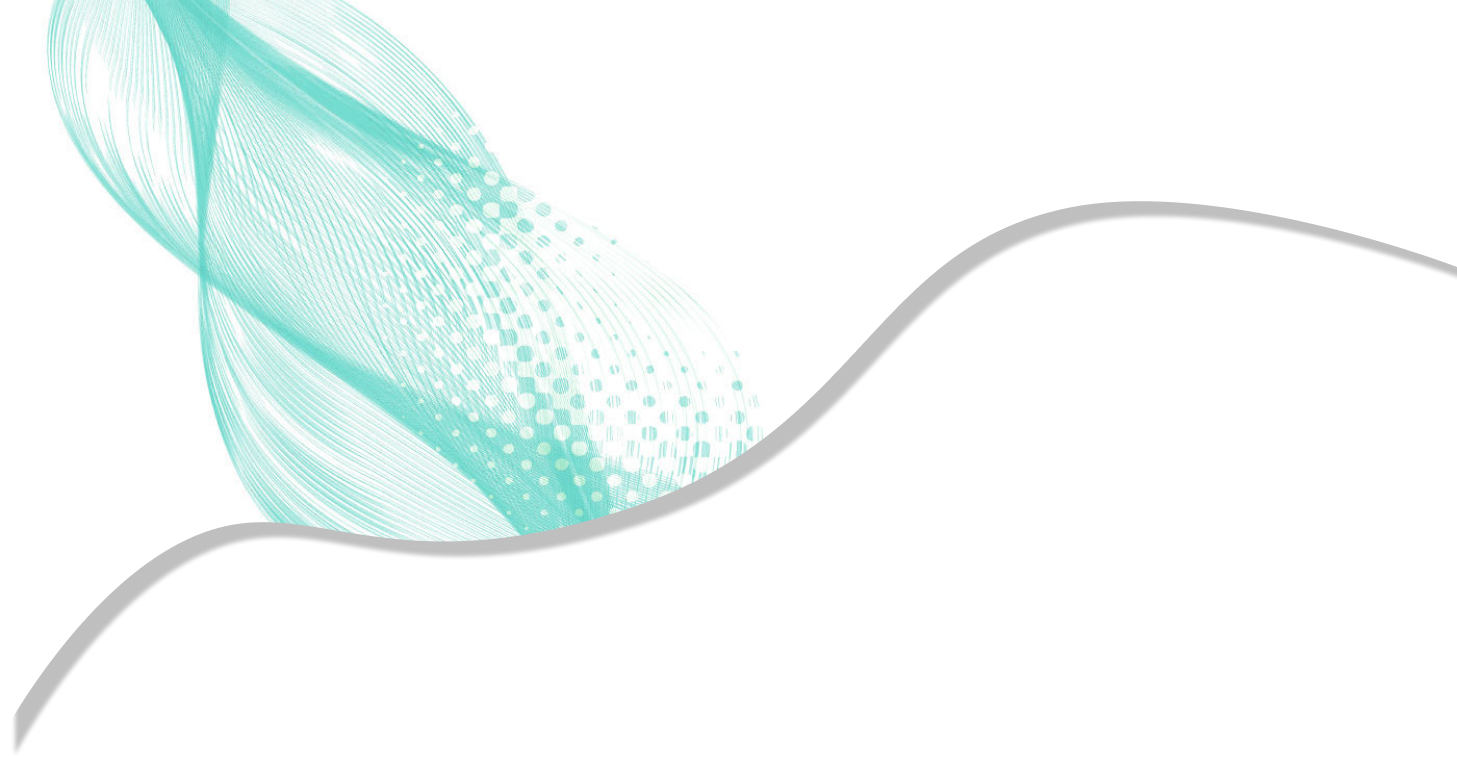
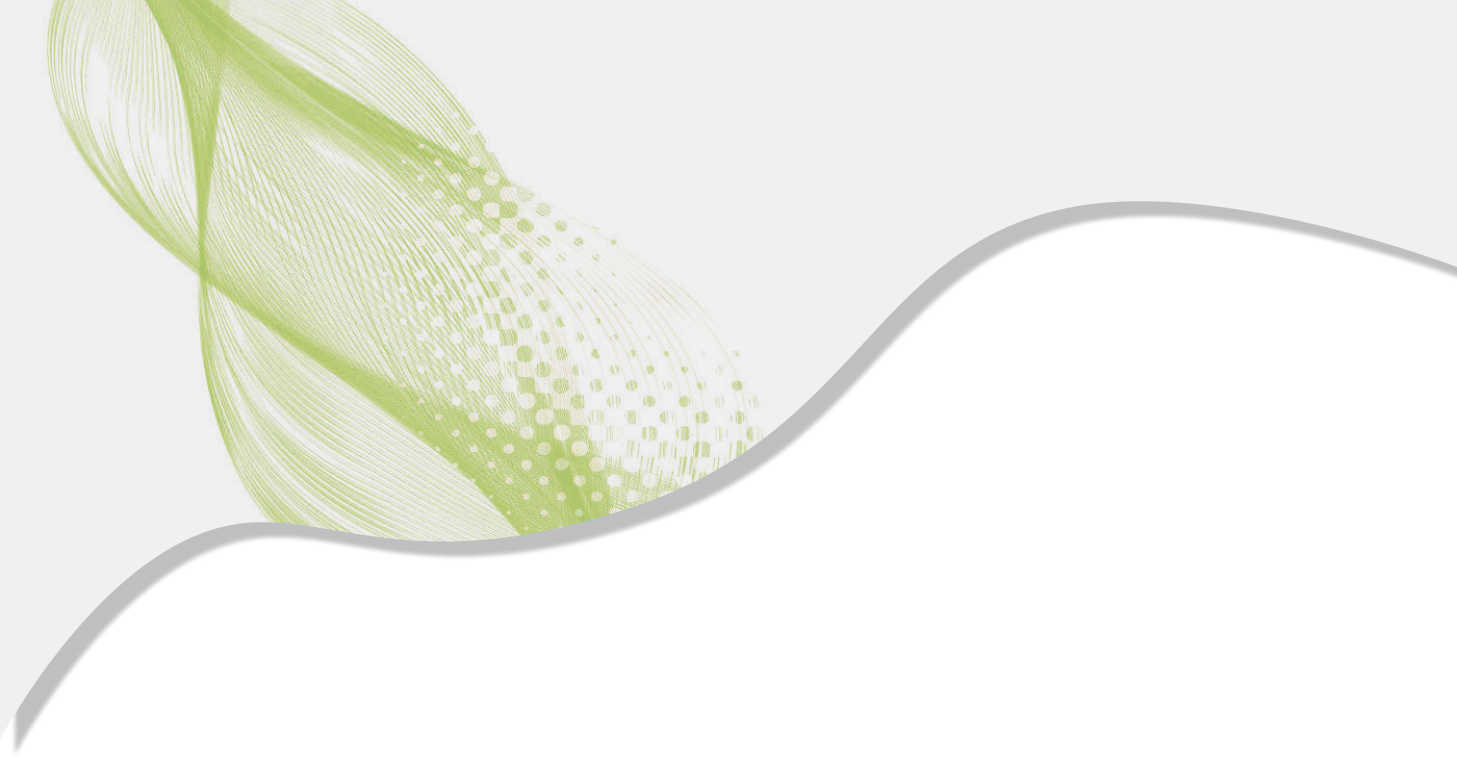
design

Changed region(s): [[0.0309, 0.0, 0.5251, 0.7263]]

diff --git a/src/index.css b/src/index.css
@@ -8,11 +8,11 @@ body {
     sans-serif;
   -webkit-font-smoothing: antialiased;
   -moz-osx-font-smoothing: grayscale;
-  background: rgb(6,74,18);
-  background: -moz-linear-gradient(95deg, rgba(6,74,18,1) 0%, rgba(63,134,89,1) 49%, rgba(119,217,203,1) 100%);
-  background: -webkit-linear-gradient(95deg, rgba(6,74,18,1) 0%, rgba(63,134,89,1) 49%, rgba(119,217,203,1) 100%);
-  background: linear-gradient(95deg, rgba(6,74,18,1) 0%, rgba(63,134,89,1) 49%, rgba(119,217,203,1) 100%);
-  filter: progid:DXImageTransform.Microsoft.gradient(startColorstr="#064a12",endColorstr="#77d9cb",GradientType=1);
+  background: rgb(71,67,58);
+  background: -moz-linear-gradient(90deg, rgba(71,67,58,1) 0%, rgba(232,236,205,1) 100%);
+  background: -webkit-linear-gradient(90deg, rgba(71,67,58,1) 0%, rgba(232,236,205,1) 100%);
+  background: linear-gradient(90deg, rgba(71,67,58,1) 0%, rgba(232,236,205,1) 100%);
+  filter: progid:DXImageTransform.Microsoft.gradient(startColorstr="#47433a",endColorstr="#e8eccd",GradientType=1);
   background-attachment: fixed;
   font-family: 'Oswald', Courier, Monospace;
   font-weight: 500;

diff --git a/src/components/navigation/navigation.css b/src/components/navigation/navigation.css
@@ -11,11 +11,11 @@
 }
 
 .nav-box {
-background: rgb(13,131,76);
-background: -moz-linear-gradient(38deg, rgba(13,131,76,1) 0%, rgba(144,198,205,1) 100%);
-background: -webkit-linear-gradient(38deg, rgba(13,131,76,1) 0%, rgba(144,198,205,1) 100%);
-background: linear-gradient(38deg, rgba(13,131,76,1) 0%, rgba(144,198,205,1) 100%);
-filter: progid:DXImageTransform.Microsoft.gradient(startColorstr="#0d834c",endColorstr="#90c6cd",GradientType=1);
+	background: rgb(71,67,58);
+	background: -moz-linear-gradient(90deg, rgba(71,67,58,1) 0%, rgba(123,128,93,1) 100%);
+	background: -webkit-linear-gradient(90deg, rgba(71,67,58,1) 0%, rgba(123,128,93,1) 100%);
+	background: linear-gradient(90deg, rgba(71,67,58,1) 0%, rgba(123,128,93,1) 100%);
+	filter: progid:DXImageTransform.Microsoft.gradient(startColorstr="#47433a",endColorstr="#7b805d",GradientType=1);
 }
 
 /* media querries */

diff --git a/src/components/header/header.css b/src/components/header/header.css
@@ -16,7 +16,11 @@
 
 h2 {
 	font-size: 1.2rem;
-	background: -webkit-linear-gradient(45deg, #064a12, #57d9cb);
+	background: rgb(71,67,58);
+background: -moz-linear-gradient(90deg, rgba(71,67,58,1) 0%, rgba(170,177,121,1) 100%);
+background: -webkit-linear-gradient(90deg, rgba(71,67,58,1) 0%, rgba(170,177,121,1) 100%);
+background: linear-gradient(90deg, rgba(71,67,58,1) 0%, rgba(170,177,121,1) 100%);
+filter: progid:DXImageTransform.Microsoft.gradient(startColorstr="#47433a",endColorstr="#aab179",GradientType=1);
  	-webkit-background-clip: text;
 	-webkit-text-fill-color: transparent;
 }
@@ -43,5 +47,9 @@ h2 {
 		margin-left: 5%;
 		margin-top: 12rem;
 		width: 8rem;
+	}
+
+	.header-background {
+		height: 16rem;
 	}
 }

diff --git a/src/components/header/header.js b/src/components/header/header.js
@@ -9,7 +9,7 @@ const Header = () => {
 			<img className='header-background' src={HeaderBackground}/>
 			<img className='slide-in-left head-img content-start tl' src={image} alt='header'/>
 			<h2 className='slide-in-left hd-margin w-30'>
-				Magic App to detect face in Your pictures
+				Magic App to detect faces in Your pictures
 			</h2>
 		</div>
 	)

diff --git a/src/components/rank/image.js b/src/components/rank/image.js
@@ -3,7 +3,7 @@ import pic from '../../img/face.png'
 
 const Image = () => {
 	return(
-		<div className='item-e center ma5 mt6' style={{width: 200, height: 200}}>
+		<div className='item-e center ma4 mt6' style={{width: 300, height: 300}}>
 			<img src={pic} />
 		</div>
 		)

diff --git a/src/App.css b/src/App.css
@@ -113,7 +113,7 @@
 @media only screen and (max-width: 800px) {
   .cont-grid {
     width: 95vw;
-    margin: 1rem auto;
+    margin: 5rem auto;
   }
 }
 
